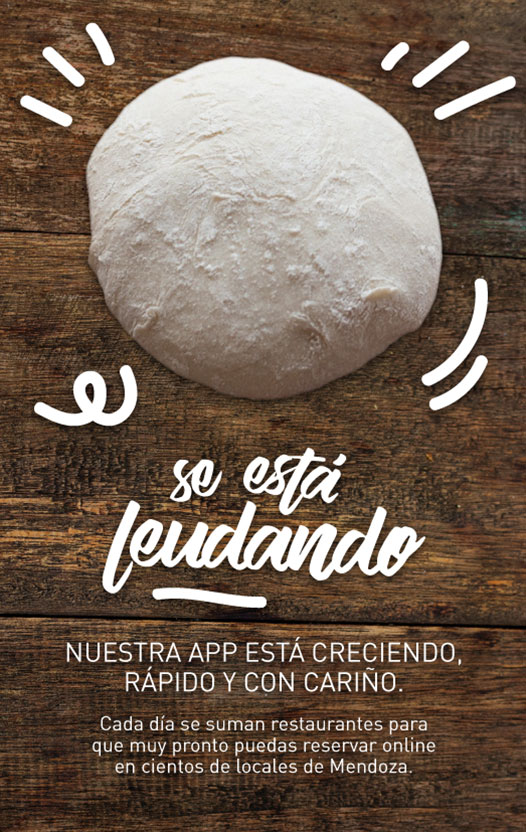
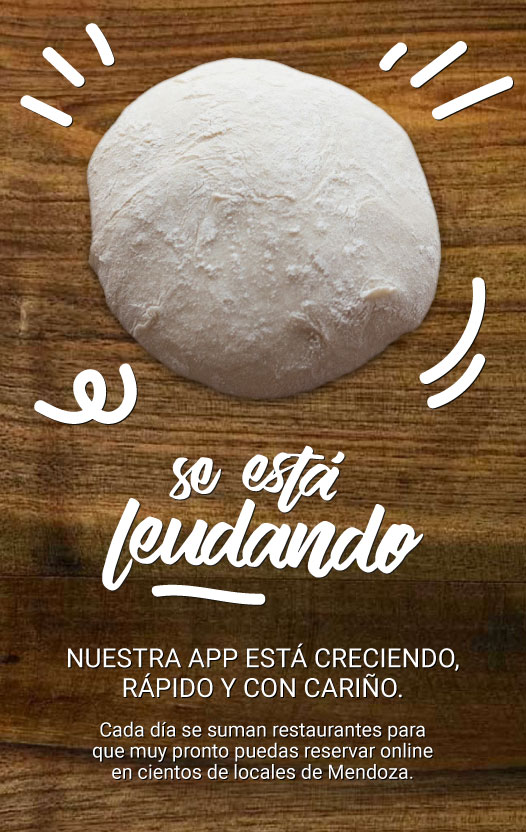
Estilos publicidades

diff --git a/css/gmgstyle.css b/css/gmgstyle.css
@@ -78,8 +78,7 @@ header {
     background: url(../img/fondopubli.jpg) no-repeat;
     background-size: cover;
     min-height: 400px;
-    background-position: center;
-    background-color: #fff001;
+    background-position: top;
     display: block;
 }
 
@@ -88,7 +87,6 @@ header {
     background-size: auto;
     min-height: 600px;
     background-position: center;
-    background-color: #FFEF00;
     display: none;
 }
 
@@ -925,8 +923,7 @@ li#calificacionLocal {
         background: url(../img/fondopubli.jpg) no-repeat;
         background-size: cover;
         min-height: 300px;
-        background-position: center;
-        background-color: #fff001;
+        background-position: top;
         display: block;
     }
 
